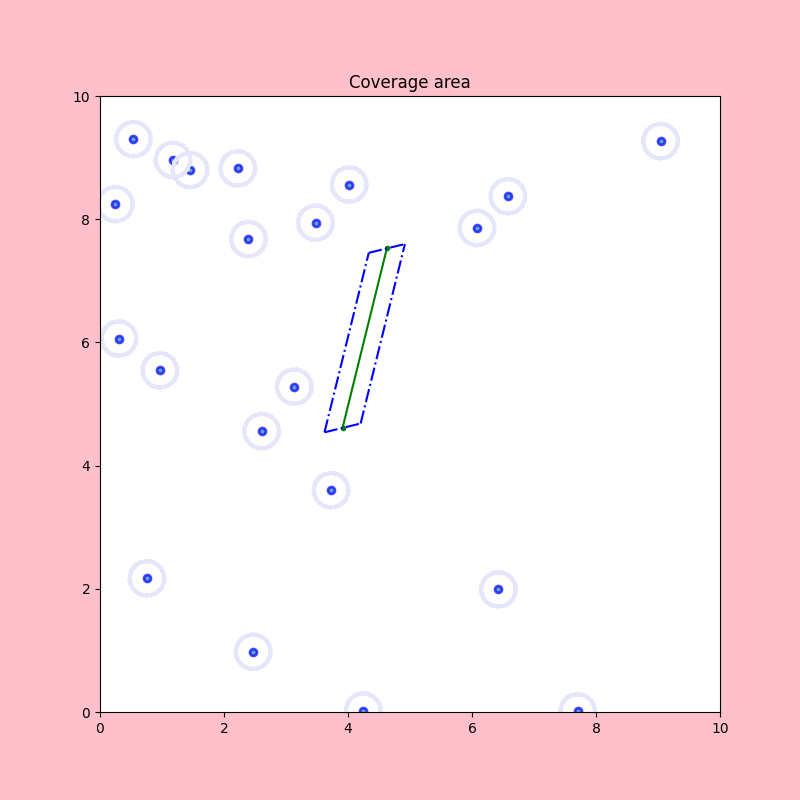
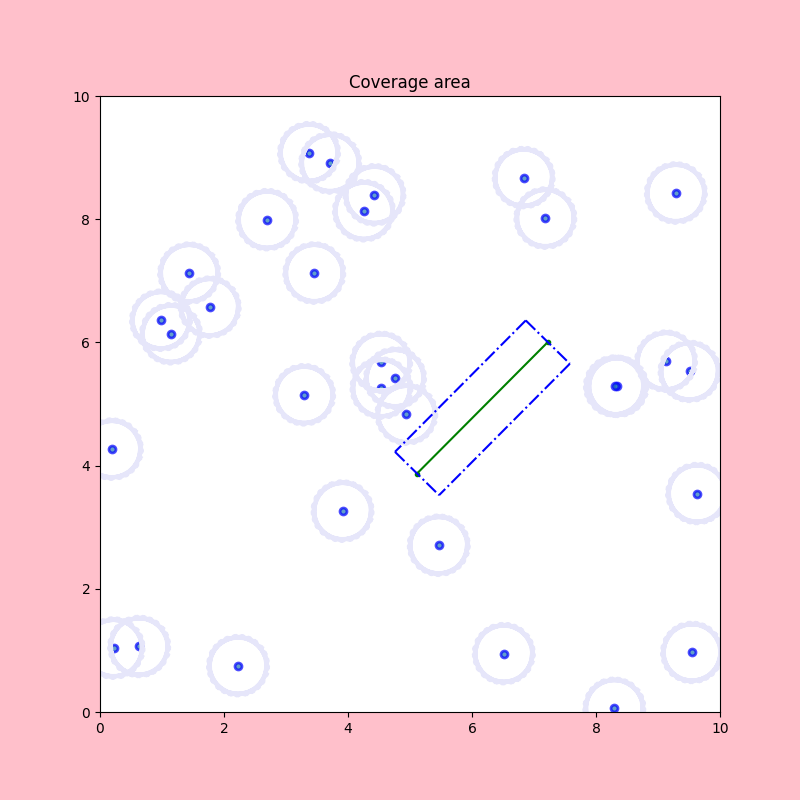
26/11/24

diff --git a/laboratory 5/lab 5.py b/laboratory 5/lab 5.py
@@ -2,12 +2,14 @@ import numpy as np
 import matplotlib.pyplot as plt
 import scipy.stats
 import math
+
+from PIL.ImageChops import difference
 from numpy.linalg import norm
 from numpy import arccos, dot, pi, cross
 
 guard_size = 10
-poisson_lam = 0.2
-radius_block = 0.3
+poisson_lam = 0.3
+radius_block = 0.5
 distance = 3
 list_point=np.array
 
@@ -24,7 +26,7 @@ def poisson_point_process(lambda0,area_size):
     return x,y
 def paint_rectangle(x_point1, y_point1, x_point2, y_point2, angle, radius_block):
     difference_angle = 2 * np.pi - angle
-    reverse_angle = np.pi / 2 - angle
+    reverse_angle = np.pi / 2 -  difference_angle
     opposite_angle = reverse_angle + np.pi
     x_rectang_A = x_point1 + radius_block * np.cos(opposite_angle)
     y_rectang_A = y_point1 + radius_block * np.sin(opposite_angle)
